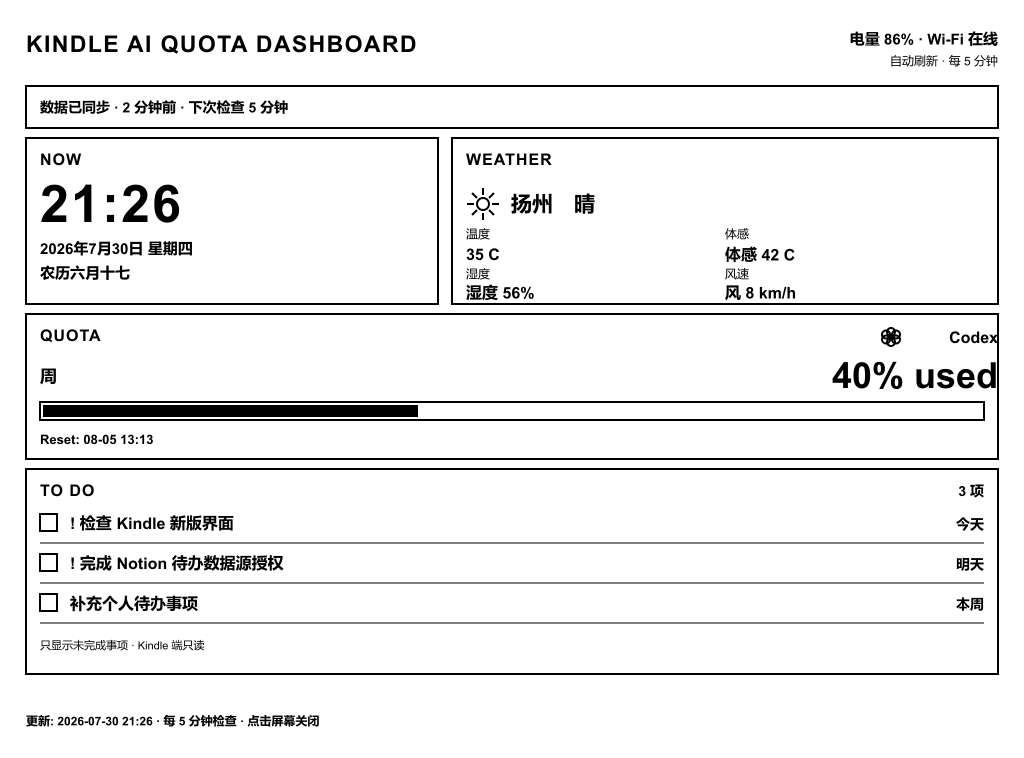
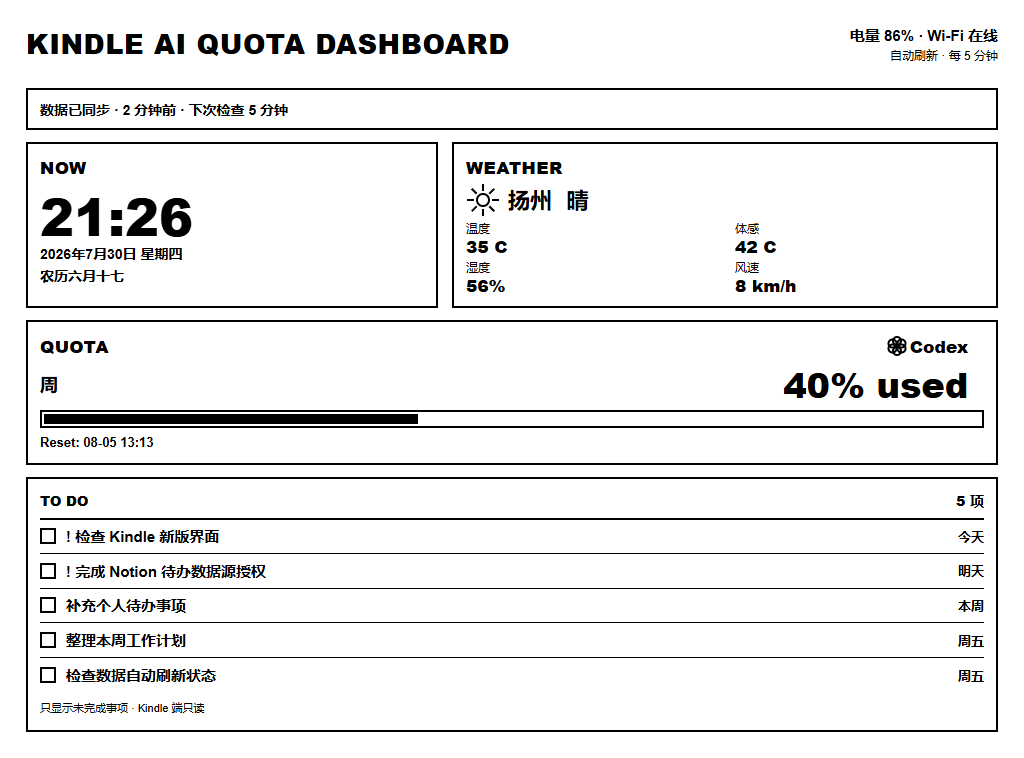
Refine KPW1 quota spacing and show five todos

Changed region(s): [[0.0, 0.0303, 1.0, 0.971]]

diff --git a/dist/data.js b/dist/data.js
@@ -1,5 +1,5 @@
 window.DASH_DATA = {
-  "updatedAt": "2026-07-30T21:47:32.721+08:00",
+  "updatedAt": "2026-07-30T21:51:27.922+08:00",
   "calendar": {
     "solar": "2026年7月30日 星期四",
     "lunar": "农历六月十七"
@@ -14,8 +14,8 @@ window.DASH_DATA = {
     "windKph": 4,
     "windDir": "SE",
     "place": "扬州",
-    "observedAt": "2026-07-30T21:47:32.736+08:00",
-    "fetchedAt": "2026-07-30T21:47:32.736+08:00",
+    "observedAt": "2026-07-30T21:51:27.936+08:00",
+    "fetchedAt": "2026-07-30T21:51:27.936+08:00",
     "error": null
   },
   "quote": null,
@@ -43,7 +43,7 @@ window.DASH_DATA = {
       }
     ],
     "totalOpen": 3,
-    "fetchedAt": "2026-07-30T21:47:31.480+08:00",
+    "fetchedAt": "2026-07-30T21:51:27.893+08:00",
     "error": null
   },
   "sources": {
@@ -51,7 +51,7 @@ window.DASH_DATA = {
       "ok": false,
       "label": "Claude",
       "windows": [],
-      "fetchedAt": "2026-07-30T21:47:31.466+08:00",
+      "fetchedAt": "2026-07-30T21:51:27.879+08:00",
       "error": "未启用",
       "disabled": true
     },
@@ -66,13 +66,15 @@ window.DASH_DATA = {
         }
       ],
       "fetchedAt": "2026-07-30T21:47:31.466+08:00",
-      "error": null
+      "error": "'\"node\"' �����ڲ����ⲿ���Ҳ���ǿ����еĳ���\r\n���������ļ���",
+      "stale": true,
+      "lastAttemptAt": "2026-07-30T21:51:27.880+08:00"
     },
     "kimi": {
       "ok": false,
       "label": "Kimi",
       "windows": [],
-      "fetchedAt": "2026-07-30T21:47:31.479+08:00",
+      "fetchedAt": "2026-07-30T21:51:27.892+08:00",
       "error": "未启用",
       "disabled": true
     },
@@ -82,7 +84,7 @@ window.DASH_DATA = {
       "balance": null,
       "currency": "CNY",
       "detail": null,
-      "fetchedAt": "2026-07-30T21:47:31.480+08:00",
+      "fetchedAt": "2026-07-30T21:51:27.893+08:00",
       "error": "未启用",
       "disabled": true
     }

diff --git a/README.md b/README.md
@@ -132,7 +132,7 @@ npm run serve
 
 ## 待办事项（TO DO）
 
-默认从本机的 `config/todo.json` 读取最多 3 条未完成事项。这个文件已被 Git 忽略，
+默认从本机的 `config/todo.json` 读取最多 5 条未完成事项。这个文件已被 Git 忽略，
 可以安全地在电脑上修改，不会把原始文件提交到仓库。
 
 如需连接 Notion，把 `config.json` 中的 `todo.provider` 改为 `notion`，并配置：
